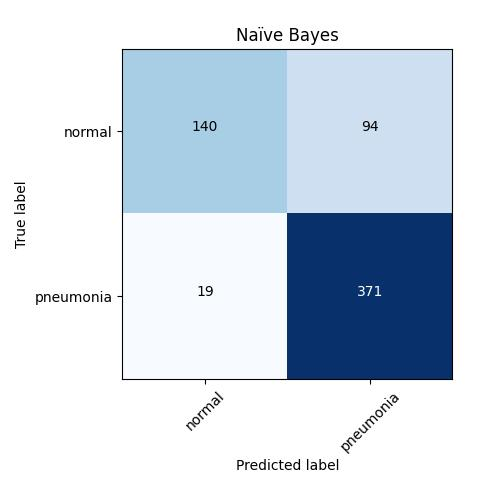
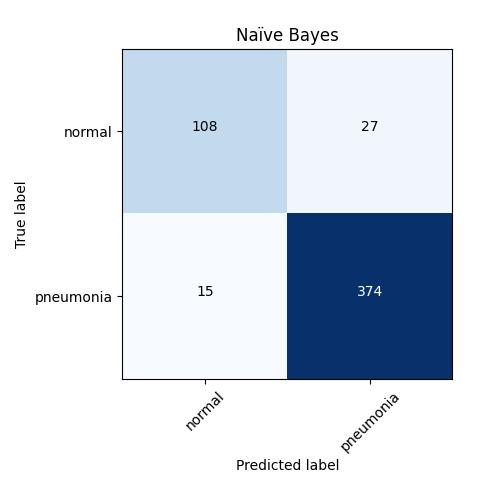
Evaluate on validation set

Changed region(s): [[0.24, 0.09, 0.93, 0.45], [0.75, 0.57, 0.78, 0.6], [0.39, 0.57, 0.42, 0.6]]

diff --git a/AMLS_23-24_SN23135632/A/acode.py b/AMLS_23-24_SN23135632/A/acode.py
@@ -12,6 +12,8 @@ from sklearn.metrics import confusion_matrix, classification_report
 
 def main():
 
+    is_validation = False
+
     # Open file
     pneumonia = np.load('./AMLS_23-24_SN23135632/Datasets/pneumoniamnist.npz')
     
@@ -27,54 +29,29 @@ def main():
     # Reshape the 2d image into a 1d image    
     X_train = x_train.reshape(x_train.shape[0], x_train.shape[1]**2)
     X_test = x_test.reshape(x_test.shape[0], x_test.shape[1]**2)
+    X_val = x_val.reshape(x_val.shape[0], x_val.shape[1]**2)
 
-    # Create a Naive Bayes Model
-    nb_model = GaussianNB()
+    # Create the models
+    
+    models_name = ['Naive Bayes.jpg', 'LogReg.jpg', 'SGD.jpg', 'Perceptron.jpg', 'K_NN.jpg', 'MLPerceptron.jpg', 'SVC.jpg', 'Decision Tree.jpg']
 
-    # Train the model
+    models = create_models(tune_parameters=is_validation)
+    nb_model, logreg_model, sgd_model, percep_model, knn_model, mlp_model, svc_model, tree_model = models
+
+    # Train the models
+    fit_models = train(models, X_train, y_train)
+    fit_nb, fit_logreg, fit_sgd, fit_percep, fit_knn, fit_mlp, fit_svc, fit_tree = fit_models
+
+    """
     fit_nb = nb_model.fit(X_train, y_train)
-
-    # Create a Logistic Regression model
-    logreg_model = LogisticRegression()
-
-    # Train the model
     fit_logreg = logreg_model.fit(X_train, y_train)
-
-    # Create a Stochastic Gradient Descent Classifier (hinge loss = Linear SVM)
-    sgd_model = SGDClassifier()
-
-    # Train the model
     fit_sgd = sgd_model.fit(X_train, y_train)
-
-    # Create a (Linear) Perceptron model
-    percep_model = Perceptron()
-
-    # Train the model
     fit_percep = percep_model.fit(X_train, y_train)
-
-    # Create a K-Nearest Neigbours model
-    knn_model = KNeighborsClassifier()
-
-    # Train the model
     fit_knn = knn_model.fit(X_train, y_train)
-
-    # Create a Multilayer Perceptron model
-    mlp_model = MLPClassifier()
-
-    # Train the model
     fit_mlp = mlp_model.fit(X_train, y_train)
-
-    # Create a Linear Support Vector Machine model
-    svc_model = LinearSVC()
-
-    # Train the model
     fit_svc = svc_model.fit(X_train, y_train)
-
-    # Create a Decision Tree Classifier
-    tree_model = DecisionTreeClassifier()
-
-    # Train the model
     fit_tree = tree_model.fit(X_train, y_train)
+    """
 
     """
     # Create an AdaBoost Classifier
@@ -90,14 +67,52 @@ def main():
     fit_bagging = bagging_model.fit(X_train, y_train)
     """
 
-    models = [fit_nb, fit_logreg, fit_sgd, fit_percep, fit_knn, fit_mlp, fit_svc, fit_tree]
-    models_name = ['Naive Bayes.jpg', 'LogReg.jpg', 'SGD.jpg', 'Perceptron.jpg', 'K_NN.jpg', 'MLPerceptron.jpg', 'SVC.jpg', 'Decision Tree.jpg']
+    # models = [fit_nb, fit_logreg, fit_sgd, fit_percep, fit_knn, fit_mlp, fit_svc, fit_tree]
+    # models_name = ['Naive Bayes.jpg', 'LogReg.jpg', 'SGD.jpg', 'Perceptron.jpg', 'K_NN.jpg', 'MLPerceptron.jpg', 'SVC.jpg', 'Decision Tree.jpg']
 
-    metrics(models, models_name, X_test, y_test)
+    # metrics(models, models_name, X_test, y_test)
+
+    # Evaluate the models
+    if len(fit_models) == len(models_name):
+        for i in range(len(fit_models)):
+            validation(fit_models[i], models_name[i], X_val, y_val, is_validation=is_validation)
 
     return
 
+def create_models(tune_parameters):
+    if not tune_parameters:
+        nb_model = GaussianNB() # Naive Bayes model
+        logreg_model = LogisticRegression() # Logistic Regression model
+        sgd_model = SGDClassifier() # Stochastic Gradient Descent Classifier (hinge loss = Linear SVM)
+        percep_model = Perceptron() # (Linear) Perceptron model
+        knn_model = KNeighborsClassifier() # K-Nearest Neigbours model
+        mlp_model = MLPClassifier() # Multilayer Perceptron model
+        svc_model = LinearSVC() # Linear Support Vector Machine Classifier
+        tree_model = DecisionTreeClassifier() # Decision Tree Classifier
+    else:
+        nb_model = GaussianNB() # Naive Bayes model
+        logreg_model = LogisticRegression(penalty='l2') # Default L2 penalty
+        sgd_model = SGDClassifier(loss='log_loss', penalty='l2') # default loss=hinge, penalty=l2
+        percep_model = Perceptron(penalty='l2') # default penalty=none
+        knn_model = KNeighborsClassifier(n_neighbors=7, weights='distance') # default neighbours=5, weights=uniform
+        mlp_model = MLPClassifier(hidden_layer_sizes=(50,)) # default hidden_layer_sizes=(100,), activation=relu
+        svc_model = LinearSVC(penalty='l1', loss='hinge') # default penalty=l2, loss=squared_hinge
+        tree_model = DecisionTreeClassifier(criterion='entropy') # default criterion=gini, aplitter=best
 
+    models = [nb_model, logreg_model, sgd_model, percep_model, knn_model, mlp_model, svc_model, tree_model]
+
+    return models
+
+def train(models, X_train, y_train):
+    fit_models = []
+
+    for model in models:
+        fit_model = model.fit(X_train, y_train)
+        fit_models.append(fit_model)
+
+    return fit_models
+
+"""
 def metrics(models, models_name, x_test, y_test):
     report = open('report.txt', 'w')
 
@@ -140,3 +155,47 @@ def metrics(models, models_name, x_test, y_test):
         mdl=mdl+1
 
     report.close()
+"""
+
+def validation(model, model_name, X_val, y_val, is_validation):
+
+    if not is_validation:
+        report = open('report.txt', 'a')
+    else:
+        report = open('validation_report.txt', 'a')
+        
+    report.write(f'{model_name} score is: {model.score(X_val, y_val)}\n')
+
+    y_pred = model.predict(X_val)
+    cm = confusion_matrix(y_val, y_pred)
+
+    classes = ['normal', 'pneumonia']
+
+    report.write(classification_report(y_val, y_pred, target_names=classes))
+    report.write('\n')
+    report.write("*****************************************************\n\n\n")
+
+    plt.figure(figsize=(5,5))
+    plt.title('confusion matrix')
+    tick_marks = np.arange(len(classes))
+    plt.xticks(tick_marks, classes, rotation=45)
+    plt.yticks(tick_marks, classes)
+
+    fmt = 'd' #'.2f'
+    thresh = cm.max() / 2.
+    for i, j in itertools.product(range(cm.shape[0]), range(cm.shape[1])):
+        plt.text(j, i, format(cm[i, j], fmt),
+                horizontalalignment="center",
+                color="white" if cm[i, j] > thresh else "black")
+
+    plt.title('Naïve Bayes')
+    plt.ylabel('True label')
+    plt.xlabel('Predicted label')
+    plt.tight_layout()
+
+    plt.imshow(cm, interpolation='nearest', cmap=plt.cm.Blues)
+    plt.savefig(model_name) 
+
+    report.close()
+
+    return
